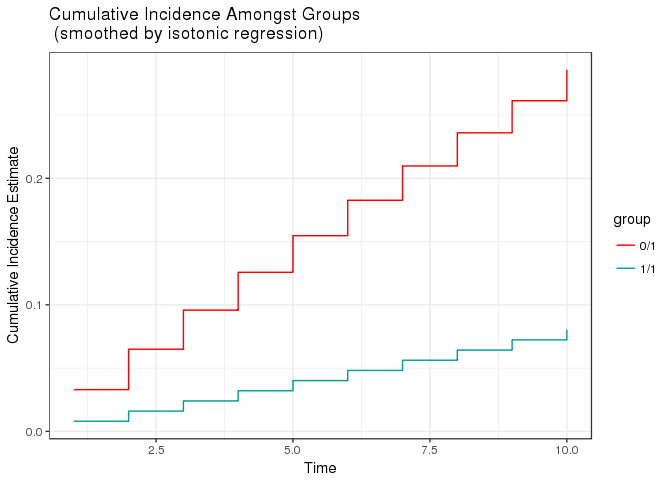
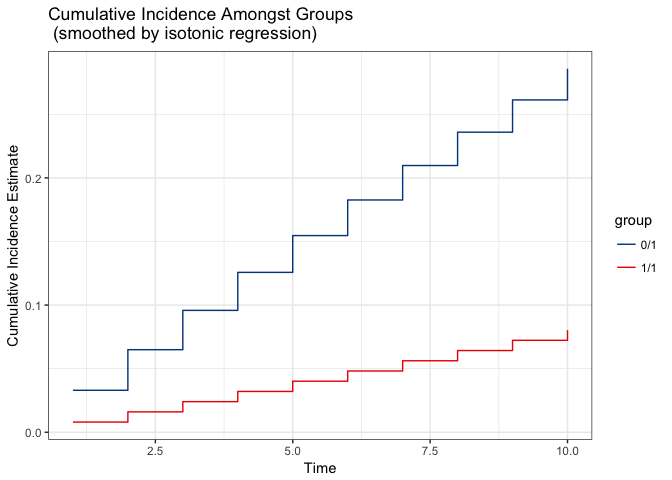
switch palette to ggsci, rebuild readme

diff --git a/README.md b/README.md
@@ -1,33 +1,53 @@
 
 <!-- README.md is generated from README.Rmd. Please edit that file -->
-R/`survtmle`
-============
 
-[![Travis-CI Build Status](https://travis-ci.org/benkeser/survtmle.svg?branch=master)](https://travis-ci.org/benkeser/survtmle) [![AppVeyor Build Status](https://ci.appveyor.com/api/projects/status/github/benkeser/survtmle?branch=master&svg=true)](https://ci.appveyor.com/project/benkeser/survtmle) [![Coverage Status](https://img.shields.io/codecov/c/github/benkeser/survtmle/master.svg)](https://codecov.io/github/benkeser/survtmle?branch=master) [![CRAN](http://www.r-pkg.org/badges/version/survtmle)](http://www.r-pkg.org/pkg/survtmle) [![CRAN downloads](https://cranlogs.r-pkg.org/badges/survtmle)](https://CRAN.R-project.org/package=survtmle) [![Project Status: Active – The project has reached a stable, usable state and is being actively developed.](http://www.repostatus.org/badges/latest/active.svg)](http://www.repostatus.org/#active) [![MIT license](http://img.shields.io/badge/license-MIT-brightgreen.svg)](http://opensource.org/licenses/MIT) [![DOI](https://zenodo.org/badge/DOI/10.5281/zenodo.835868.svg)](https://doi.org/10.5281/zenodo.835868)
+# R/`survtmle`
 
-> Targeted Minimum Loss-Based Estimation (TMLE) for Survival Analysis with Competing Risks
+[![Travis-CI Build
+Status](https://travis-ci.org/benkeser/survtmle.svg?branch=master)](https://travis-ci.org/benkeser/survtmle)
+[![AppVeyor Build
+Status](https://ci.appveyor.com/api/projects/status/github/benkeser/survtmle?branch=master&svg=true)](https://ci.appveyor.com/project/benkeser/survtmle)
+[![Coverage
+Status](https://img.shields.io/codecov/c/github/benkeser/survtmle/master.svg)](https://codecov.io/github/benkeser/survtmle?branch=master)
+[![CRAN](http://www.r-pkg.org/badges/version/survtmle)](http://www.r-pkg.org/pkg/survtmle)
+[![CRAN
+downloads](https://cranlogs.r-pkg.org/badges/survtmle)](https://CRAN.R-project.org/package=survtmle)
+[![Project Status: Active – The project has reached a stable, usable
+state and is being actively
+developed.](http://www.repostatus.org/badges/latest/active.svg)](http://www.repostatus.org/#active)
+[![MIT
+license](http://img.shields.io/badge/license-MIT-brightgreen.svg)](http://opensource.org/licenses/MIT)
+[![DOI](https://zenodo.org/badge/DOI/10.5281/zenodo.835868.svg)](https://doi.org/10.5281/zenodo.835868)
 
-**Authors:** [David Benkeser](https://www.benkeserstatistics.com/) and [Nima Hejazi](http://nimahejazi.org)
+> Targeted Minimum Loss-Based Estimation (TMLE) for Survival Analysis
+> with Competing Risks
 
-------------------------------------------------------------------------
+**Authors:** [David Benkeser](https://www.benkeserstatistics.com/) and
+[Nima Hejazi](http://nimahejazi.org)
 
-Description
------------
+-----
 
-`survtmle` is an R package designed to use targeted minimum loss-based estimation (TMLE) to compute covariate-adjusted marginal cumulative incidence estimates in right-censored survival settings with and without competing risks. The estimates can leverage ensemble machine learning via the `SuperLearner` package.
+## Description
 
-------------------------------------------------------------------------
+`survtmle` is an R package designed to use targeted minimum loss-based
+estimation (TMLE) to compute covariate-adjusted marginal cumulative
+incidence estimates in right-censored survival settings with and without
+competing risks. The estimates can leverage ensemble machine learning
+via the `SuperLearner` package.
 
-Installation
-------------
+-----
 
-For standard use, we recommend installing the package from [CRAN](https://cran.r-project.org/) via
+## Installation
+
+For standard use, we recommend installing the package from
+[CRAN](https://cran.r-project.org/) via
 
 ``` r
 install.packages("survtmle")
 ```
 
-You can install a stable release of `survtmle` from GitHub via [`devtools`](https://www.rstudio.com/products/rpackages/devtools/) with:
+You can install a stable release of `survtmle` from GitHub via
+[`devtools`](https://www.rstudio.com/products/rpackages/devtools/) with:
 
 ``` r
 devtools::install_github("benkeser/survtmle")
@@ -43,19 +63,19 @@ devtools::install_github("benkeser/survtmle", ref = "develop")
 ```
 -->
 
-------------------------------------------------------------------------
+-----
 
-Issues
-------
+## Issues
 
-If you encounter any bugs or have any specific feature requests, please [file an issue](https://github.com/benkeser/survtmle/issues).
+If you encounter any bugs or have any specific feature requests, please
+[file an issue](https://github.com/benkeser/survtmle/issues).
 
-------------------------------------------------------------------------
+-----
 
-Example
--------
+## Example
 
-This minimal example shows how to use `survtmle` to obtain cumulative incidence estimates with a very simple, simulated data set.
+This minimal example shows how to use `survtmle` to obtain cumulative
+incidence estimates with a very simple, simulated data set.
 
 ``` r
 # simulate data
@@ -109,63 +129,70 @@ plot(tpfit)
 
 <img src="README-example-1.png" style="display: block; margin: auto;" />
 
-------------------------------------------------------------------------
+-----
 
-Contributions
--------------
+## Contributions
 
-It is our hope that `survtmle` will grow to be widely used in health and medical studies where the substantive scientific questions concern parameters for which estimation and inference can be obtain nonparametrically, in settings involving right-censoring. To that end, contributions are very welcome, though we ask that interested contributors consult our [`contribution guidelines`](https://github.com/benkeser/survtmle/blob/master/CONTRIBUTING.md) prior to submitting a pull request.
+It is our hope that `survtmle` will grow to be widely used in health and
+medical studies where the substantive scientific questions concern
+parameters for which estimation and inference can be obtain
+nonparametrically, in settings involving right-censoring. To that end,
+contributions are very welcome, though we ask that interested
+contributors consult our [`contribution
+guidelines`](https://github.com/benkeser/survtmle/blob/master/CONTRIBUTING.md)
+prior to submitting a pull request.
 
-------------------------------------------------------------------------
+-----
 
-Citation
---------
+## Citation
 
 After using the `survtmle` R package, please cite both of the following:
 
-        @misc{benkeser2017survtmle,
-          author = {Benkeser, David C and Hejazi, Nima S},
-          title = {{survtmle}: Targeted Minimum Loss-Based Estimation for
-                   Survival Analysis in {R}},
-          year  = {2017},
-          howpublished = {\url{https://github.com/benkeser/survtmle}},
-          url = {http://dx.doi.org/10.5281/zenodo.835868},
-          doi = {10.5281/zenodo.835868}
-        }
+``` 
+    @misc{benkeser2017survtmle,
+      author = {Benkeser, David C and Hejazi, Nima S},
+      title = {{survtmle}: Targeted Minimum Loss-Based Estimation for
+               Survival Analysis in {R}},
+      year  = {2017},
+      howpublished = {\url{https://github.com/benkeser/survtmle}},
+      url = {http://dx.doi.org/10.5281/zenodo.835868},
+      doi = {10.5281/zenodo.835868}
+    }
 
-        @article{benkeser2017improved,
-          author = {Benkeser, David C and Carone, Marco and Gilbert, Peter B},
-          title = {Improved estimation of the cumulative incidence of rare
-                   outcomes},
-          journal = {Statistics in Medicine},
-          publisher = {Wiley-Blackwell},
-          year  = {2017},
-          doi = {10.1002/sim.7337}
-        }
+    @article{benkeser2017improved,
+      author = {Benkeser, David C and Carone, Marco and Gilbert, Peter B},
+      title = {Improved estimation of the cumulative incidence of rare
+               outcomes},
+      journal = {Statistics in Medicine},
+      publisher = {Wiley-Blackwell},
+      year  = {2017},
+      doi = {10.1002/sim.7337}
+    }
+```
 
-------------------------------------------------------------------------
+-----
 
-License
--------
+## License
 
 © 2016-2017 [David C. Benkeser](http://www.benkeserstatistics.com)
 
-The contents of this repository are distributed under the MIT license. See below for details:
+The contents of this repository are distributed under the MIT license.
+See below for details:
 
     The MIT License (MIT)
-
+    
     Copyright (c) 2016-2017 David C. Benkeser
-
+    
     Permission is hereby granted, free of charge, to any person obtaining a copy
     of this software and associated documentation files (the "Software"), to deal
     in the Software without restriction, including without limitation the rights
     to use, copy, modify, merge, publish, distribute, sublicense, and/or sell
     copies of the Software, and to permit persons to whom the Software is
     furnished to do so, subject to the following conditions:
-
+    
     The above copyright notice and this permission notice shall be included in all
     copies or substantial portions of the Software.
-
+    
     THE SOFTWARE IS PROVIDED "AS IS", WITHOUT WARRANTY OF ANY KIND, EXPRESS OR
     IMPLIED, INCLUDING BUT NOT LIMITED TO THE WARRANTIES OF MERCHANTABILITY,
     FITNESS FOR A PARTICULAR PURPOSE AND NONINFRINGEMENT. IN NO EVENT SHALL THE
